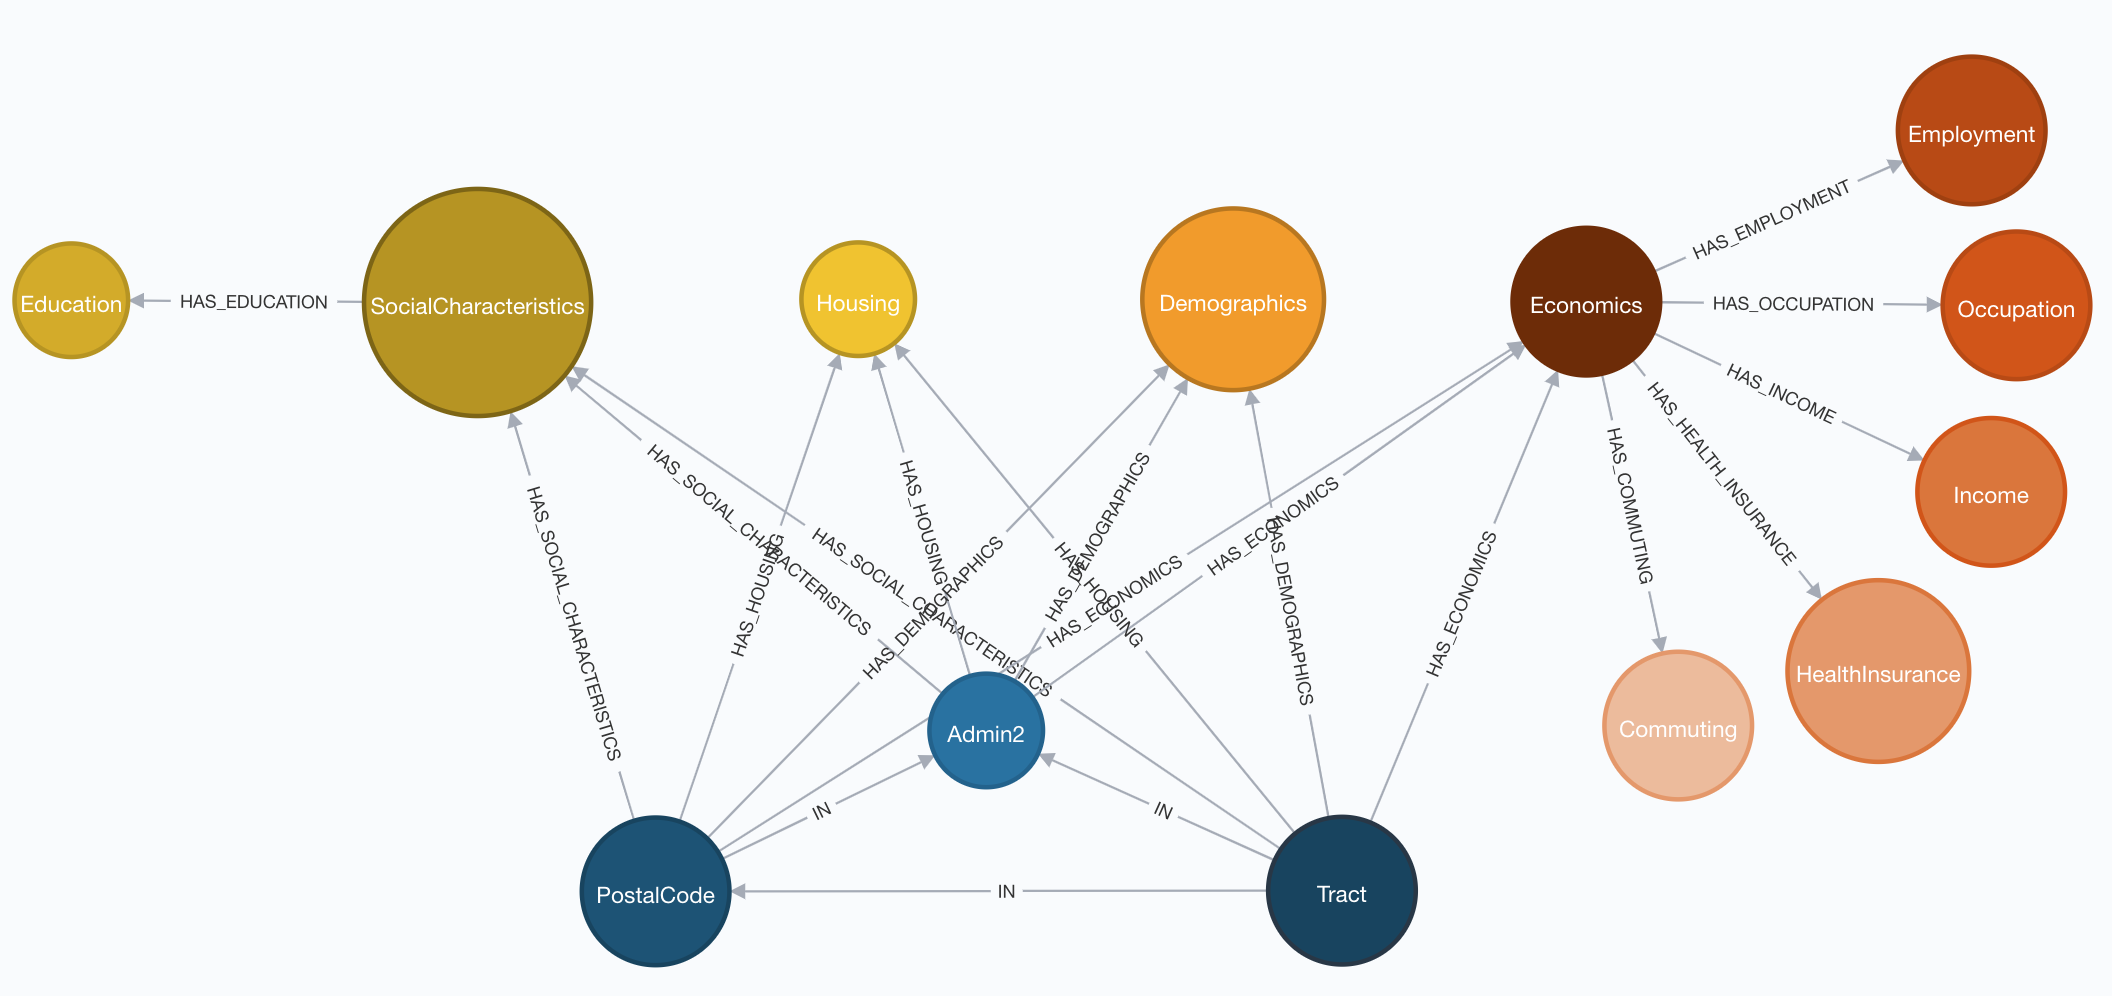
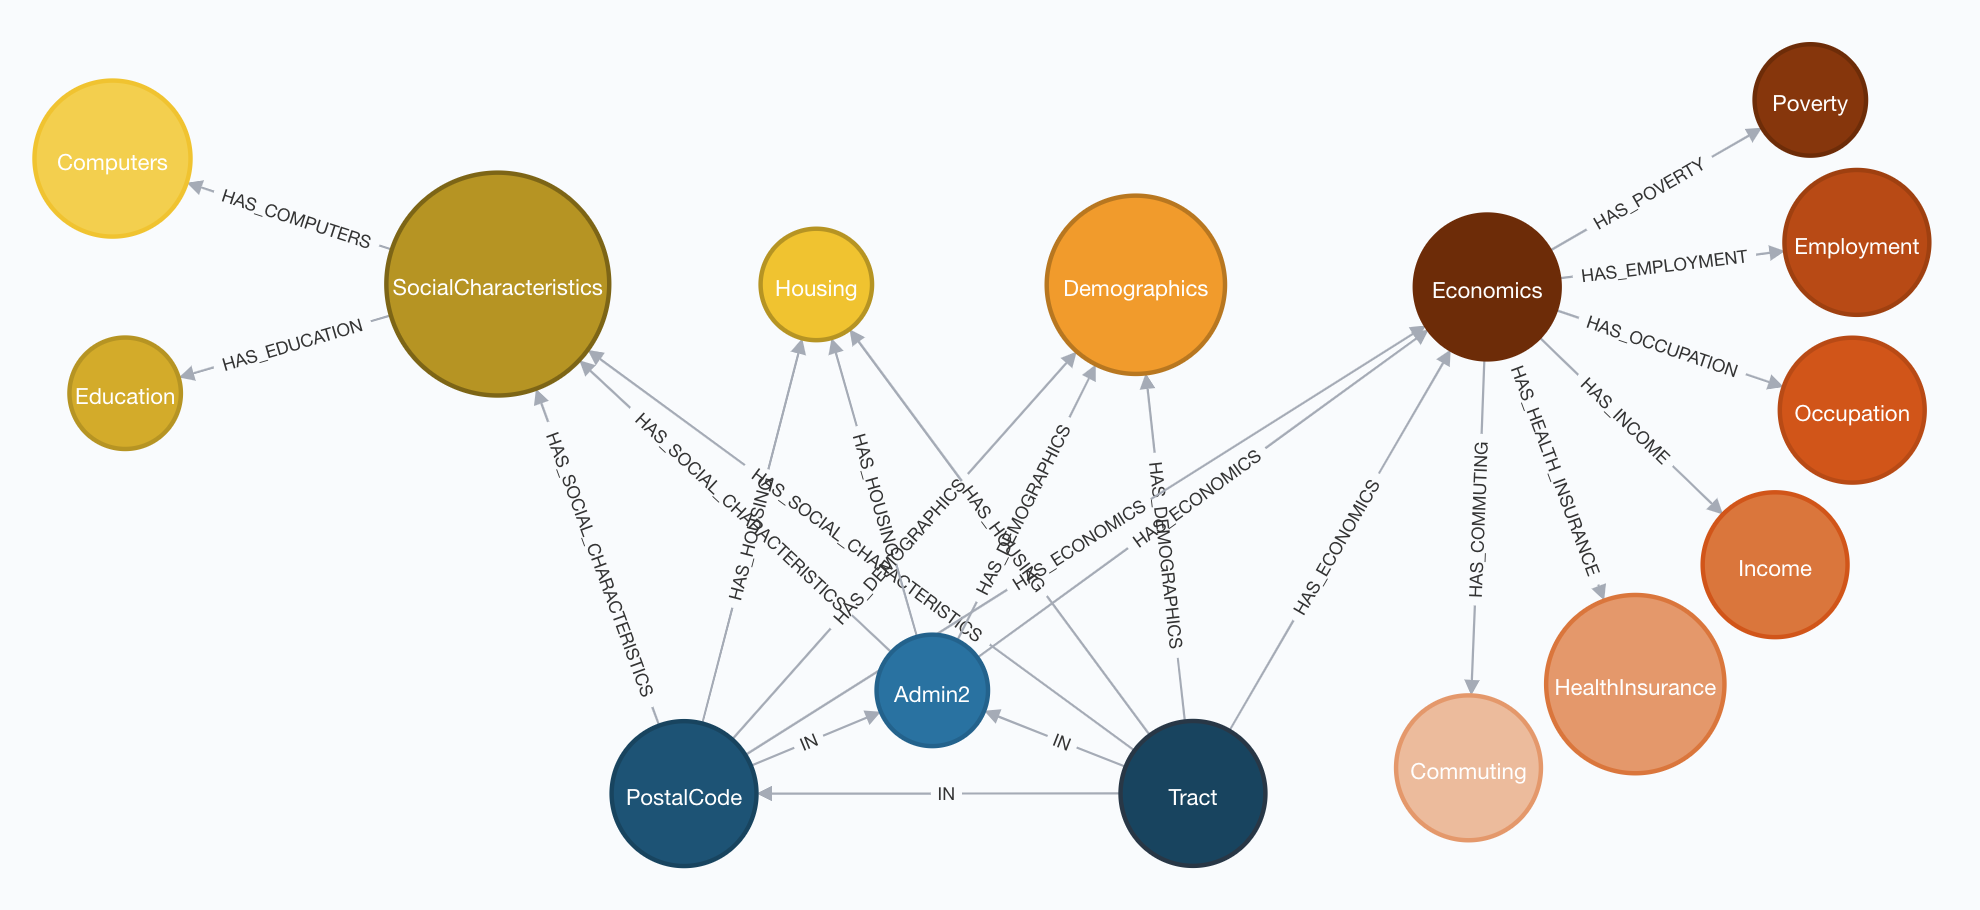
updated image

diff --git a/README.md b/README.md
@@ -22,7 +22,7 @@ The location subgraph shows the geographic hierarchy from the world to the city 
 <img src="docs/PopulationCharacteristics.png", width="100%">
 </p>
 
-The population characteristics subgraph represents estimates from the American Community Survey 2018 5-year. Selected population characteristics that may be risk factors for COVID-19 infections have been included. These data are currently available at three geographic levels: US Counties (Admin2), US ZIP Codes (PostalCode), and US Census Tract (Tract).
+The population characteristics subgraph represents data from the American Community Survey 2018 5-year estimates. Selected population characteristics that may be risk factors for COVID-19 infections have been included. These data are currently available at three geographic levels: US Counties (Admin2), US ZIP Codes (PostalCode), and US Census Tract (Tract).
 
 Note, this KG is work in progress and changes frequently.
 
@@ -118,6 +118,7 @@ Once Jupyter Lab launches, navigate to the `notebooks/queries` directory and run
 |[Bioentities](notebooks/queries/Bioentities.ipynb)| Runs example queries for bioentities|
 |[AnalyzeVariantsSpikeGlycoprotein](notebooks/analyses/AnalyzeVariantsSpikeGlycoprotein.ipynb)| Analyze SARS-CoV-2 Spike Glycoprotein Variants|
 |[RiskFactorsByStateCounty](notebooks/analyses/RiskFactorsByStateCounty.ipynb)| Explore Risk Factors for COVID-19 for Counties in US States|
+|[RiskFactorsSanDiegoCounty](notebooks/analyses/RiskFactorsSanDiegoCounty.ipynb)| Explore Risk Factors for COVID-19 for San Diego County|
 |...|add examples here ...|
 
 ## Data Download, Preparation, and Integration
@@ -153,7 +154,9 @@ COVID-19-Net Knowledge Graph is created from publically available resources, inc
 |[03a-USCensusDP03Employment](notebooks/dataprep/03a-USCensusDP03Employment.ipynb)| Downloads economic characteristics (DP03) from the American Community Survey 5-Year Data 2018|
 |[03a-USCensusDP03HealthInsurance](notebooks/dataprep/03a-USCensusDP03HealthInsurance.ipynb)| Downloads economic characteristics (DP03) from the American Community Survey 5-Year Data 2018|
 |[03a-USCensusDP03Income](notebooks/dataprep/03a-USCensusDP03Income.ipynb)| Downloads economic characteristics (DP03) from the American Community Survey 5-Year Data 2018|
+|[03a-USCensusDP03Income](notebooks/dataprep/03a-USCensusDP03Income.ipynb)| Downloads economic characteristics (DP03) from the American Community Survey 5-Year Data 2018|
 |[03a-USCensusDP03Occupation](notebooks/dataprep/03a-USCensusDP03Occupation.ipynb)| Downloads economic characteristics (DP03) from the American Community Survey 5-Year Data 2018|
+|[03a-USCensusDP03Poverty](notebooks/dataprep/03a-USCensusDP03Poverty.ipynb)| Downloads economic characteristics (DP03) from the American Community Survey 5-Year Data 2018|
 |[03a-USCensusDP04](notebooks/dataprep/03a-USCensusDP05.ipynb)| Downloads housing (DP04) from the American Community Survey 5-Year Data 2018|
 |[03a-USCensusDP05](notebooks/dataprep/03a-USCensusDP05.ipynb)| Downloads demographic data estimates (DP05) from the American Community Survey 5-Year Data 2018|
 |...|Future notebooks that add new data to the knowledge graph|
